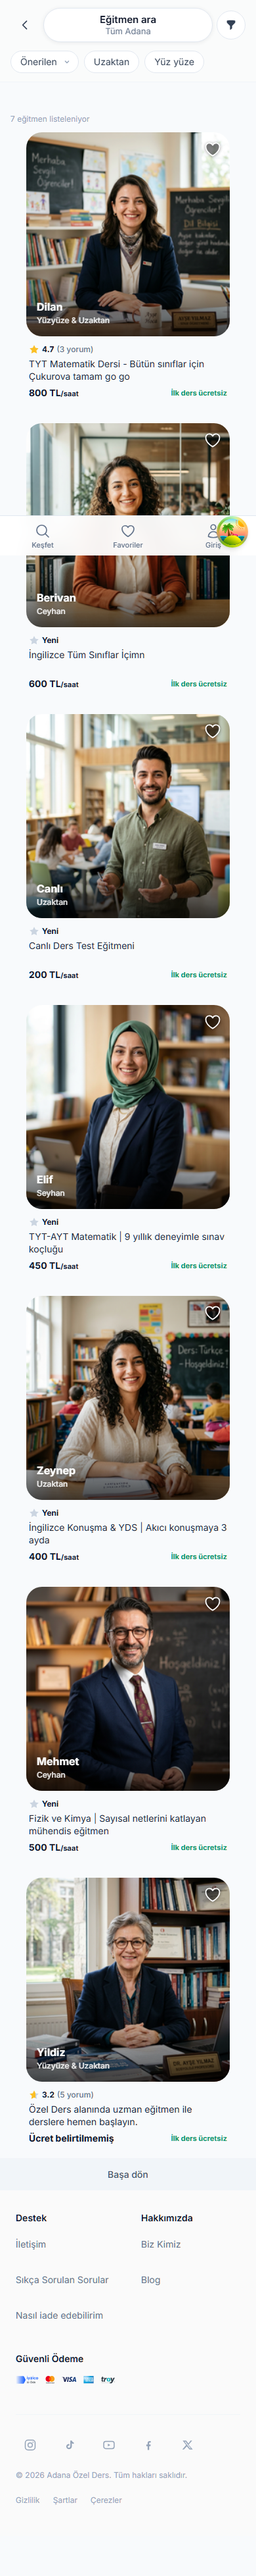
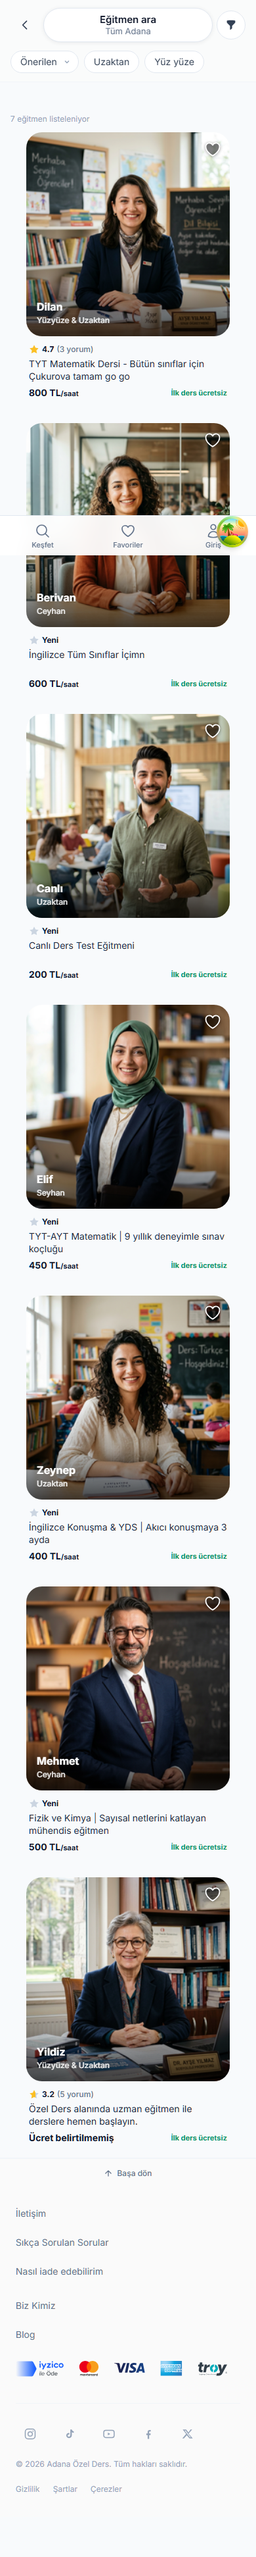
feat(mobil): footer telefonda başlıksız düz liste, "Başa dön" ince satır
Kullanıcı kararı (9 Eyl 2026), ölçüm sonrası.

TESPİT: footer 390px'te 574px, yani sayfanın %49'u — içerikten uzun. Bunun
~200px'i BU TURUN kendi eseriydi: footer linklerinin dokunma hedefini 44px'e
çıkarmıştım (20px'ti, yanlış satıra basmak kolaydı) ve her link 44px'lik bir
satıra dönüşmüştü.

  - Telefonda TEK SÜTUN, "Destek"/"Hakkımızda" başlıkları gizli: beş linki
    iki başlıkla bölmek tek sütunda bilgi vermeden ~50px yiyordu. İki sütun
    ayrıca üçüncü hücreyi ("Güvenli Ödeme") tek başına ikinci satıra düşürüp
    sağını boş bırakıyordu.
  - Ödeme rozeti artık linklerin altında tam genişlik kendi satırında — bir
    sütunun içine sıkışmış bir güven işareti olmaktan çıktı.
  - "Başa dön" KALDIRILMADI, İNCELTİLDİ (kullanıcı: *"kalsın ama çok
    kalın"*): alt sekme çubuğu geldiğinden beri ekranın altında iki tam
    genişlik dolgu üst üste duruyordu. Zemin kalktı, yerine saç-teli çizgi
    ve küçük bir ok geldi; dokunma yüksekliği 44px KORUNDU. Masaüstünde
    bugünkü şerit aynen duruyor.
  - Dikey ritim telefonda sıkıldı (iç dolgu 32→20, sütun arası 24→8).

Ölçüm: 574 → 546px. DÜRÜST NOT: tek sütun yapı gereği iki sütundan UZUNdur
(link ızgarası 268 → 300); kazancın tamamı ritim ve "Başa dön"den geldi.
Başlıksız İKİ sütun ~480px verirdi — kullanıcıya rakamla sunuldu.

Hiçbir bağlantı kaybolmadı: 5 nav + 5 sosyal + 3 yasal, ödeme bandı yerinde.

Kapı: 2444/2444 vitest, eslint 0 hata, mobil tur 8/8 GEÇTİ.

diff --git a/frontend/src/components/SiteFooter.tsx b/frontend/src/components/SiteFooter.tsx
@@ -77,7 +77,10 @@ export function SiteFooter() {
   // aralıkla duruyordu, parmakla yanlış satıra basmak kolaydı. Masaüstünde
   // ölçü değişmez.
   const linkCls = "min-h-[44px] py-2.5 transition hover:text-slate-900 md:min-h-0 md:py-0 ";
-  const baslikCls = "text-sm font-semibold text-slate-900";
+  // Başlıklar TELEFONDA GİZLİ: beş linki iki başlıkla bölmek tek sütunda
+  // bilgi vermeden ~50px yiyordu. Masaüstünde sütunları ayıran şey onlar,
+  // orada duruyor.
+  const baslikCls = "hidden text-sm font-semibold text-slate-900 sm:block";
 
   // 29 Ağu (3. tur, kullanıcı kararı): footer'da SEKİZ sözleşme DEĞİL,
   // Amazon paritesinde ÜÇ link durur (Kullanım Koşulları · Gizlilik · Çerez).
@@ -109,19 +112,38 @@ export function SiteFooter() {
           const az = window.matchMedia("(prefers-reduced-motion: reduce)").matches;
           window.scrollTo({ top: 0, behavior: az ? "auto" : "smooth" });
         }}
-        className="block w-full bg-slate-100 py-3.5 text-center text-sm font-medium text-slate-600 transition-colors hover:bg-slate-200 hover:text-slate-900"
+        // Telefonda ŞERİT DEĞİL, ince bir satır (kullanıcı: *"kalsın ama çok
+        // kalın"*). Alt sekme çubuğu geldiğinden beri ekranın altında iki tam
+        // genişlik dolgu üst üste duruyordu. Dokunma yüksekliği 44px KORUNUR
+        // (proje eşiği); düşen tek şey görsel ağırlık: zemin kalkar, yerine
+        // saç-teli çizgi gelir, yazı küçülür. Masaüstünde bugünkü şerit aynen
+        // durur — orada alt çubuk yok ve sayfa uzun.
+        className="flex min-h-[44px] w-full items-center justify-center gap-1.5 border-t border-slate-100 text-center text-xs font-medium text-slate-500 transition-colors hover:text-slate-900 md:block md:border-0 md:bg-slate-100 md:py-3.5 md:text-sm md:text-slate-600 md:hover:bg-slate-200"
       >
+        <svg
+          className="h-3.5 w-3.5 md:hidden"
+          viewBox="0 0 24 24"
+          fill="none"
+          stroke="currentColor"
+          strokeWidth={2.2}
+          aria-hidden
+        >
+          <path strokeLinecap="round" strokeLinejoin="round" d="M12 19V5m-7 7 7-7 7 7" />
+        </svg>
         Başa dön
       </button>
-      <div className="mx-auto max-w-[1216px] px-6 py-8 md:py-12">
+      <div className="mx-auto max-w-[1216px] px-6 py-5 md:py-12">
         <nav
           aria-label="Site bağlantıları"
-          className="grid grid-cols-2 gap-x-10 gap-y-8 text-sm text-slate-500 sm:grid-cols-3 sm:gap-x-14"
+          // Telefonda TEK SÜTUN (kullanıcı kararı, 9 Eyl 2026). İki sütun,
+          // üçüncü hücreyi ("Güvenli Ödeme") tek başına ikinci satıra
+          // düşürüyor ve sağını boş bırakıyordu.
+          className="grid grid-cols-1 gap-x-10 gap-y-2 text-sm text-slate-500 sm:grid-cols-3 sm:gap-x-14 sm:gap-y-8"
         >
             {/* 31 Ağu (kullanıcı kararları): Destek EN SOLDA, sonra Hakkımızda.
                 Destek linkleri — mesafeli satışta erişilebilir iletişim
                 kanalı zorunlu. */}
-            <div className="space-y-2.5">
+            <div className="sm:space-y-2.5">
               <p className={baslikCls}>Destek</p>
               {/* Kısa "İletişim" iki uzun satır arasında güdük kalıyordu — en üste. */}
               <Link to={ROUTES.contact} className={`block ${linkCls}`}>
@@ -135,7 +157,7 @@ export function SiteFooter() {
               </Link>
             </div>
 
-            <div className="space-y-2.5">
+            <div className="sm:space-y-2.5">
               <p className={baslikCls}>Hakkımızda</p>
               {hakkimizda && (
                 <Link to={hakkimizda.path} className={`block ${linkCls}`}>
@@ -151,7 +173,9 @@ export function SiteFooter() {
 
             {/* Güvenli ödeme — Trendyol'daki "Güvenli Alışveriş" gibi kendi
                 sütununda (iyzico bandı: iyzico+Visa+MC+Amex tek dosyada). */}
-            <div className="space-y-2.5">
+            {/* Ödeme rozeti bir GÜVEN İŞARETİdir; telefonda bir sütunun
+                içinde değil, linklerin altında kendi satırında durur. */}
+            <div className="pt-2 sm:space-y-2.5 sm:pt-0">
               <p className={baslikCls}>Güvenli Ödeme</p>
               <img
                 src="/odeme/iyzico-logo-band.svg"
